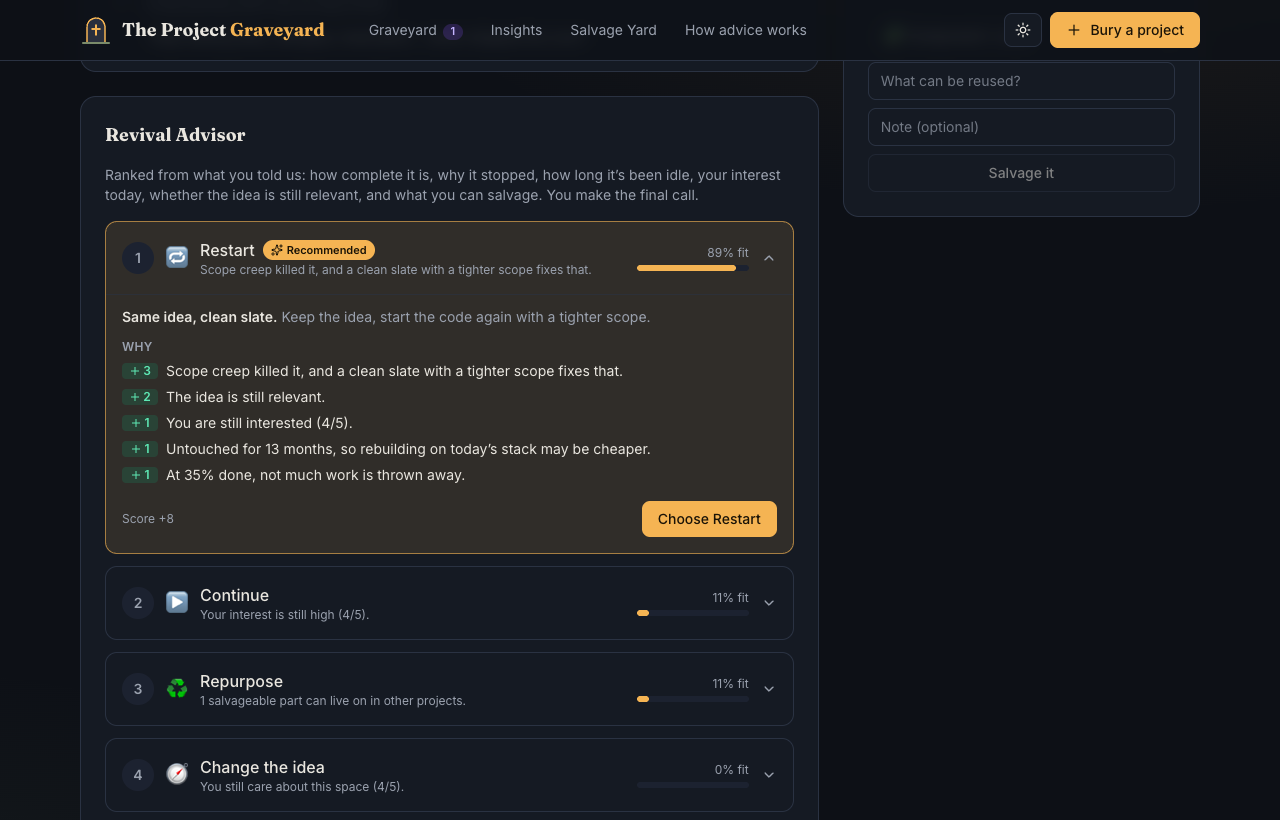
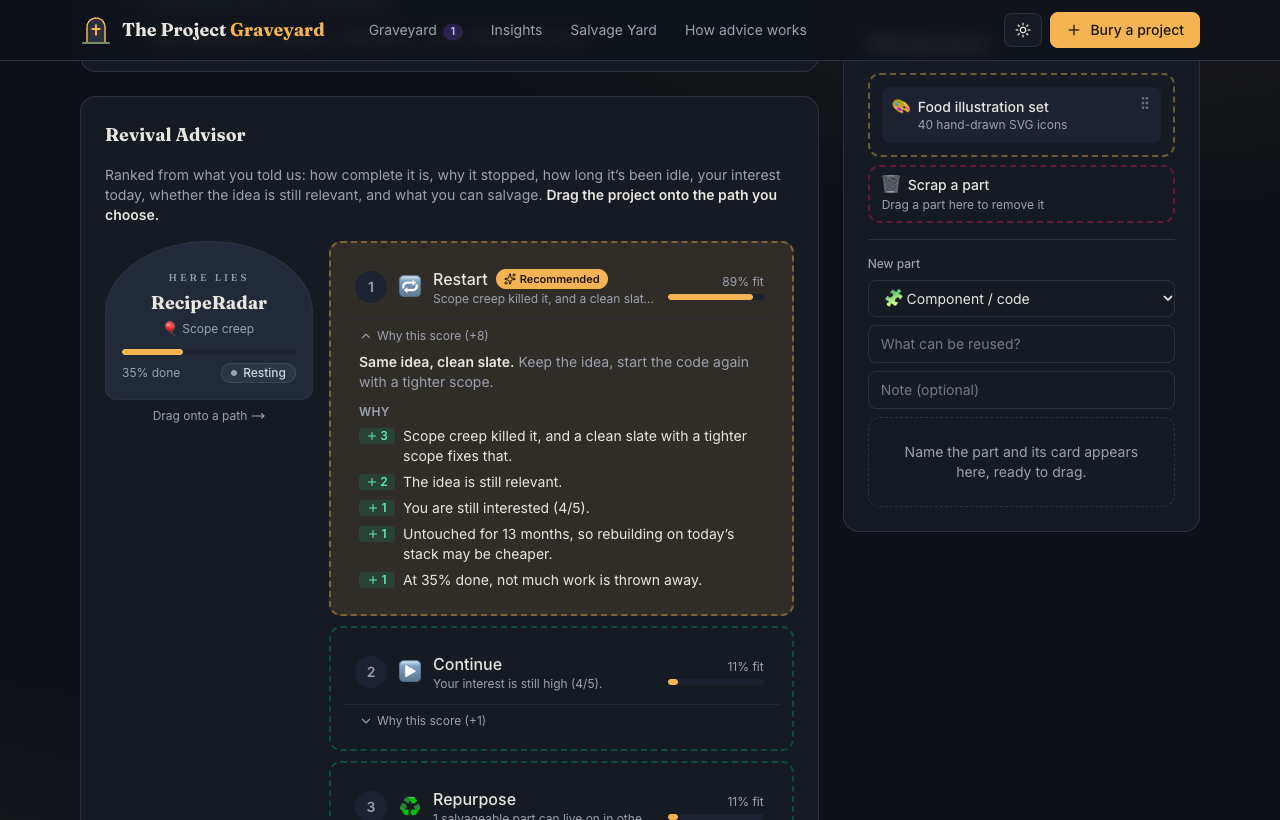
Document the Canvas Protocol: README section, demo script, config recipe, in-app explainer, new screenshots

diff --git a/src/pages/AdvisorRulesPage.tsx b/src/pages/AdvisorRulesPage.tsx
@@ -45,6 +45,18 @@ export function AdvisorRulesPage() {
         </p>
       </div>
 
+      <section aria-label="How you act" className="card flex flex-col gap-3 border-lantern/40 bg-lantern-soft p-5 text-sm sm:flex-row sm:items-center">
+        <span className="text-3xl" aria-hidden>
+          🎨
+        </span>
+        <p>
+          <strong>Canvas Protocol:</strong> there are no action buttons. Pick up a card and drop it into an action zone: the
+          project onto a revival path, a tombstone onto the dock, the graveyard card below onto a data action. Keyboard:
+          focus a card, press <kbd className="rounded border border-line px-1">Space</kbd>, use the arrow keys to choose a zone,
+          then <kbd className="rounded border border-line px-1">Space</kbd> again.
+        </p>
+      </section>
+
       <div className="grid gap-4 md:grid-cols-2 lg:grid-cols-3">
         {paths.map((p) => {
           const pathRules = rules.filter((r) => r.path === p.id)

diff --git a/src/components/Intro.tsx b/src/components/Intro.tsx
@@ -4,9 +4,9 @@ import { Link } from 'react-router-dom'
 import { useGraveyard } from '../store/useGraveyard'
 
 const steps = [
-  { emoji: '🪦', title: 'Bury it', text: 'Record what it was, how far it got and what’s left. Or import it from GitHub.' },
+  { emoji: '🪦', title: 'Bury it', text: 'Record what it was and how far it got, then drag its tombstone into the grave.' },
   { emoji: '🔍', title: 'Autopsy', text: 'Say honestly why it stopped, and how you feel about it today.' },
-  { emoji: '⚡', title: 'Decide its fate', text: 'The Revival Advisor ranks five paths and explains every point. You make the call.' },
+  { emoji: '⚡', title: 'Decide its fate', text: 'The Revival Advisor ranks five paths and explains every point. Drag the project onto one.' },
 ]
 
 export function Intro() {

diff --git a/README.md b/README.md
@@ -9,6 +9,34 @@ Built for **Code Variant · Build 01 · Problem Statement 05**.
 
 ![The graveyard: every unfinished project as a tombstone with its status](docs/screenshots/archive.png)
 
+## 🎨 The Canvas Protocol (Variant Factor)
+
+At hour 6 the rules changed: no standard buttons for primary actions. **Every primary action now happens by dragging a
+data card into an action zone.** The product didn't change; the interaction did.
+
+| Action | Before | Now: drag… | …into |
+| --- | --- | --- | --- |
+| Bury a project | "Lay it to rest" button | the live **tombstone preview** | **The grave** (or *Update the tombstone* when editing) |
+| Choose a revival path | "Choose X" + modal | the **project card** | one of the five **ranked path zones** (fit % and reasons stay visible) |
+| Reconsider a decision | "Reconsider" button | the **decision card** | **Dig it back up** |
+| Haunt me later | button + modal | the project card or a **tombstone** | **Haunt me in 7 / 14 / 30 / 90 days** |
+| Export post-mortem | button | the project card or a tombstone | **Export post-mortem** |
+| Delete | button + confirm | the project card or a tombstone | **Exhume** (toast offers *Undo*) |
+| Salvage a part | "Salvage it" button | the **new part card** | **the salvage bin**; drag a part to **Scrap** to remove it |
+| Timeline entry | "Add" button | the **new entry card** | **the timeline**; drag an entry to **Erase** to remove it |
+| Backup, reset, clear | buttons + confirm | the **graveyard card** | **Export JSON**, **Load demo**, **Empty** (with *Undo*) |
+| Import a backup | file button | a **.json file** from your desktop | **Import JSON** |
+
+Things that aren't actions just work directly: reassessing re-ranks the advice live, next steps and epitaphs save as
+you type, and GitHub import starts by itself when you paste a repo URL.
+
+- **Mouse and touch:** pick up a card and drop it on a zone. Zones light up when they can take the card, and
+  dropping on empty canvas does nothing.
+- **Keyboard:** focus a card (or a tombstone's grip), press **Space**, use the **arrow keys** to jump between zones,
+  then **Space** to drop or **Esc** to cancel. A screen reader announces every step.
+- **Built on** [`src/canvas/Canvas.tsx`](src/canvas/Canvas.tsx): one `DataCard`, one `ActionZone` and a provider
+  (dnd-kit) that every screen reuses. Zero axe-core violations on every page in both themes.
+
 ## The problem
 
 GitHub already keeps the code. What gets lost is the **context** (what was done, what was left, why it stopped) and the
@@ -21,11 +49,11 @@ decision about what happens next.
 | Feature | What it means |
 | --- | --- |
 | **Project Archive** | Every project as a tombstone with its status (Resting · Haunting · Revived · R.I.P.), with search, filters and sorting. |
-| **Bury a project** | A guided 3-step form (Tombstone → Autopsy → Assess) that autosaves as you type and previews the advice. |
+| **Bury a project** | A guided 3-step form (Tombstone → Autopsy → Assess) that autosaves, previews the advice, and finishes by dragging the tombstone into the grave. |
 | **GitHub Import** | Paste a public repo URL to fill in the stack, the dates and a summary from the README. |
 | **The Autopsy** | Tag why it stopped (time, scope creep, tech blocker, tech debt, lost interest, no users) and add a note. |
-| **Revival Advisor** | Ranks Continue · Restart · Change the idea · Repurpose · Archive, and shows the reasons for and against each one. |
-| **Decide** | Revive with three next steps, or archive with an epitaph of lessons learned. Overriding the advisor is allowed and logged. |
+| **Revival Advisor** | Ranks Continue · Restart · Change the idea · Repurpose · Archive as drop zones, each showing its reasons for and against. Drag the project onto one to decide. |
+| **Decide** | Revive with three next steps, or archive with an epitaph of lessons learned (both editable in place). Overriding the advisor is allowed and logged. |
 | **Project Timeline** | Started → milestones → abandoned → revisited → decided, plus your own entries. |
 | **Haunt Me Later** | Set a revisit reminder. Due projects switch to *Haunting* and show on the archive. |
 | **Graveyard Insights** | Why your projects die, how far they get, what you decide, which stacks pile up, plain-language findings and an epitaph wall. |
@@ -34,16 +62,19 @@ decision about what happens next.
 
 <table>
   <tr>
-    <td width="50%"><img src="docs/screenshots/bury.png" alt="Bury flow, step 2: The Autopsy" /><br /><sub>Bury: a 3-step guided form</sub></td>
-    <td width="50%"><img src="docs/screenshots/advisor.png" alt="Revival Advisor with reasons for each path" /><br /><sub>Revival Advisor: every point is explained</sub></td>
+    <td width="50%"><img src="docs/screenshots/advisor.png" alt="Revival Advisor: drag the project onto a ranked path zone" /><br /><sub>Revival Advisor: drag the project onto a path; every point is explained</sub></td>
+    <td width="50%"><img src="docs/screenshots/actions.png" alt="Project action canvas with haunt, export and exhume zones" /><br /><sub>Project actions: haunt, export and exhume are drop zones</sub></td>
   </tr>
   <tr>
+    <td><img src="docs/screenshots/bury.png" alt="Bury flow: drag the tombstone into the grave" /><br /><sub>Bury: drag the live tombstone into the grave</sub></td>
     <td><img src="docs/screenshots/insights.png" alt="Graveyard insights" /><br /><sub>Insights: patterns across the whole graveyard</sub></td>
-    <td><img src="docs/screenshots/rules.png" alt="How advice works page listing every rule" /><br /><sub>How advice works: the rules, straight from config</sub></td>
   </tr>
   <tr>
-    <td><img src="docs/screenshots/light.png" alt="Light mode" /><br /><sub>Light mode</sub></td>
-    <td align="center"><img src="docs/screenshots/mobile.png" alt="Mobile view of the advisor" width="220" /><br /><sub>Responsive down to phones</sub></td>
+    <td><img src="docs/screenshots/rules.png" alt="How advice works page listing every rule" /><br /><sub>How advice works: the rules, straight from config</sub></td>
+    <td><img src="docs/screenshots/light.png" alt="Light mode archive with the action dock" /><br /><sub>Light mode, with the archive's action dock</sub></td>
+  </tr>
+  <tr>
+    <td colspan="2" align="center"><img src="docs/screenshots/mobile.png" alt="Mobile view of the advisor" width="220" /><br /><sub>Touch drag and drop on phones</sub></td>
   </tr>
 </table>
 
@@ -69,12 +100,13 @@ See [`docs/CONFIG.md`](docs/CONFIG.md) for step-by-step recipes.
 
 ## Tech
 
-React + Vite + TypeScript · Tailwind CSS v4 · Zustand (persisted to localStorage) · React Router · Framer Motion ·
+React + Vite + TypeScript · Tailwind CSS v4 · dnd-kit (drag and drop) · Zustand (persisted to localStorage) · React Router · Framer Motion ·
 GitHub REST API (public, no auth) · Vitest · Vercel. There is no backend: everything stays in the browser, with
 JSON export/import for backups.
 
 ```
 src/
+  canvas/     DataCard, ActionZone and the drag-and-drop provider
   config/     causes, statuses, paths and advisor rules
   engine/     advisor.ts: pure scoring, plus tests
   store/      Zustand stores (projects, toasts)
@@ -83,7 +115,7 @@ src/
   pages/      Archive, Bury, Project, Insights, Salvage Yard, How advice works
 ```
 
-Accessibility: keyboard-navigable (`/` search, `b` bury), focus-trapped dialogs, labelled controls, respects *reduce motion*,
+Accessibility: keyboard drag and drop with screen-reader announcements, shortcuts (`/` search, `b` bury), labelled controls, respects *reduce motion*,
 light/dark themes, and zero axe-core violations on every page in both themes (WCAG AA contrast).
 
 ## Run it

diff --git a/docs/DEMO.md b/docs/DEMO.md
@@ -1,58 +1,64 @@
 # Demo script (about 3 minutes)
 
 Live: https://project-graveyard-codevariant.vercel.app
-Before you start, open **How advice works → Load demo projects** so everyone sees the same graveyard.
+Before you start, open **How advice works → Your data** and drag the graveyard card onto **Load demo projects**, so
+everyone sees the same graveyard.
 
 ## 1. The problem (20 s)
 
 > "Every builder has a folder of half-finished projects. GitHub keeps the code, but not *why* it stopped or *what it's
-> worth now*. So the only choices are ignore it or delete it. The Project Graveyard gives each project an honest
-> post-mortem and an explained decision."
+> worth now*. The Project Graveyard gives each project an honest post-mortem and an explained decision."
 
-## 2. The graveyard (20 s), on the home page
+## 2. The twist: the Canvas Protocol (15 s)
 
-- Each project is a **tombstone** with its status: Resting, Haunting, Revived or R.I.P.
-- Point out the **"haunting you"** banner: StudyBuddy's revisit reminder is due.
-- Filter by status, search "React".
+> "At hour 6 we lost our buttons. Every primary action is now a drag: you pick up a data card and drop it into an
+> action zone. Same product, new interaction."
 
-## 3. Bury a project live (60 s), with "Bury a project"
+## 3. The graveyard (25 s), on the home page
 
-1. Paste `github.com/erajneeshverma/rajnishkver-CodeVarient` into **Import from GitHub**. The name, stack and dates fill in.
-2. Set completion, then **Next**.
-3. **Autopsy**: pick *Scope creep* and type one honest line. **Next**.
-4. **Assess**: interest 4/5, still relevant. Point at the **advisor preview** box.
-5. **Lay it to rest.** You land on its advisor.
+- Each project is a **tombstone** with its status. Point out the **"haunting you"** banner.
+- Drag **CryptoPulse** onto **Haunt in 30 days** in the dock. A toast confirms it.
+- Drag **Smart Mirror** onto **Export post-mortem**, and a Markdown report downloads.
 
-## 4. The Revival Advisor (45 s), the key moment
+## 4. Bury a project live (50 s), with "Bury a project"
 
-- All five paths are ranked. Open the top one: every point has a **reason**, e.g. "+3 Scope creep killed it, and a clean
-  slate with a tighter scope fixes that."
-- Open a lower one to show the **Against** reasons.
-- Click **Reassess**, drop interest to 1 and set relevance to *No*. The advice flips to **Change the idea** or
-  **Archive**, and the timeline logs the revisit.
-- Choose **Restart** anyway: edit the 3 next steps, click **Resurrect**. A toast confirms it, the status changes to
-  *Revived*, and the timeline notes that you overrode the advisor.
+1. Paste `github.com/erajneeshverma/rajnishkver-CodeVarient` into **Import from GitHub**. It imports by itself: the
+   name, stack and dates fill in.
+2. **Next.** In the **Autopsy**, pick *Scope creep* and type one honest line. **Next.**
+3. **Assess**: interest 4/5, still relevant. Point at the **advisor preview** box.
+4. Drag the **tombstone preview** into **The grave**. You land on its advisor.
 
-> "It's rule-based on purpose. You can always see why, and you always make the final call."
+## 5. The Revival Advisor (45 s), the key moment
 
-## 5. Transparency and config (20 s), on "How advice works"
+- The project card sits on the left. The five paths are **drop zones**, ranked, each with its fit % and the
+  **reasons** for and against ("+3 Scope creep killed it, and a clean slate fixes that").
+- Change **Interest today** to 1 and **Still relevant?** to *No*. The ranking changes instantly; there's no submit.
+- Drag the card onto **Restart** anyway. The decision card appears with editable next steps, and the timeline notes
+  that you overrode the advisor.
+- Drag the decision card onto **Dig it back up** to reconsider.
 
-- Every rule is listed, rendered straight from `src/config/index.ts`.
-- > "If the rules change (the hour-6 twist, say), we edit data, not screens."
+> "Rule-based on purpose. You always see why, and you always make the final call."
 
-## 6. Insights and Salvage Yard (20 s)
+## 6. Accessibility (15 s)
 
-- **Insights**: your #1 cause of death, your revival rate, and findings like "StudyBuddy is your cheapest revival".
-- **Salvage Yard**: reusable parts from every project. Dead projects can still power new ones.
+- Tab to the project card, press **Space**, use the **arrow keys** to move between zones, then **Space** to drop.
+  The screen reader announces each step. The same flow works with touch on a phone.
 
-## 7. Close (10 s)
+## 7. Transparency, insights and salvage (15 s)
 
-> "Unfinished isn't failed. Understand it, decide its fate, and give the good ideas another chance."
+- **How advice works**: every rule, rendered straight from `src/config/index.ts`.
+- **Insights**: your #1 cause of death, your revival rate, and the epitaph wall.
+
+## 8. Close (10 s)
+
+> "Unfinished isn't failed. And when the rules change, a good product evolves instead of starting over."
 
 ## Likely questions
 
-- **Why rules and not AI?** Rules are transparent, run offline, are easy to test, and the user can see every reason.
-  An LLM explanation layer could sit on top later.
-- **Where is the data?** In the browser (localStorage), so no account is needed. Use Export/Import JSON for backups.
-- **How do you know the advisor is right?** Unit tests cover a scenario for each of the five paths, check that the
-  reasons add up to the score, and check that fit % agrees with the ranking (`npm test`).
+- **Why rules and not AI?** Rules are transparent, run offline, are easy to test, and the user sees every reason.
+- **Where is the data?** In the browser (localStorage). Drag the graveyard card onto **Export JSON** to back it up,
+  and drop the file on **Import JSON** to restore it.
+- **How did you adapt to the twist so fast?** Every screen shares one `DataCard` and one `ActionZone` component
+  (`src/canvas/Canvas.tsx`), and the app's logic didn't change. Only the way you trigger it did.
+- **Is drag and drop accessible?** Yes. Keyboard drag (Space, arrows, Space), screen-reader announcements, touch
+  support, and zero axe-core violations.

diff --git a/docs/CONFIG.md b/docs/CONFIG.md
@@ -50,7 +50,19 @@ Edit `label`, `description`, `badge` or `dot` in `statuses`.
 
 ### Change the reminder choices
 
-Edit `hauntOptions` (days), e.g. `[3, 7, 30]`.
+Edit `hauntOptions` (days), e.g. `[3, 7, 30]`. Each value becomes its own **Haunt me in…** drop zone on the project page.
+
+### Add a new drag-and-drop action
+
+All interactions use two components from `src/canvas/Canvas.tsx`:
+
+```tsx
+<DataCard id="…" payload={{ kind: 'project', id }} label="…">…card face…</DataCard>
+<ActionZone id="…" label="…" icon="…" accepts={(p) => p.kind === 'project'} onDrop={(p) => doIt(p)} />
+```
+
+Add the zone next to the others. Mouse, touch, keyboard and screen-reader support come for free. A new kind of card
+needs a new `Payload` variant in the same file.
 
 ## Changes that need code
 
